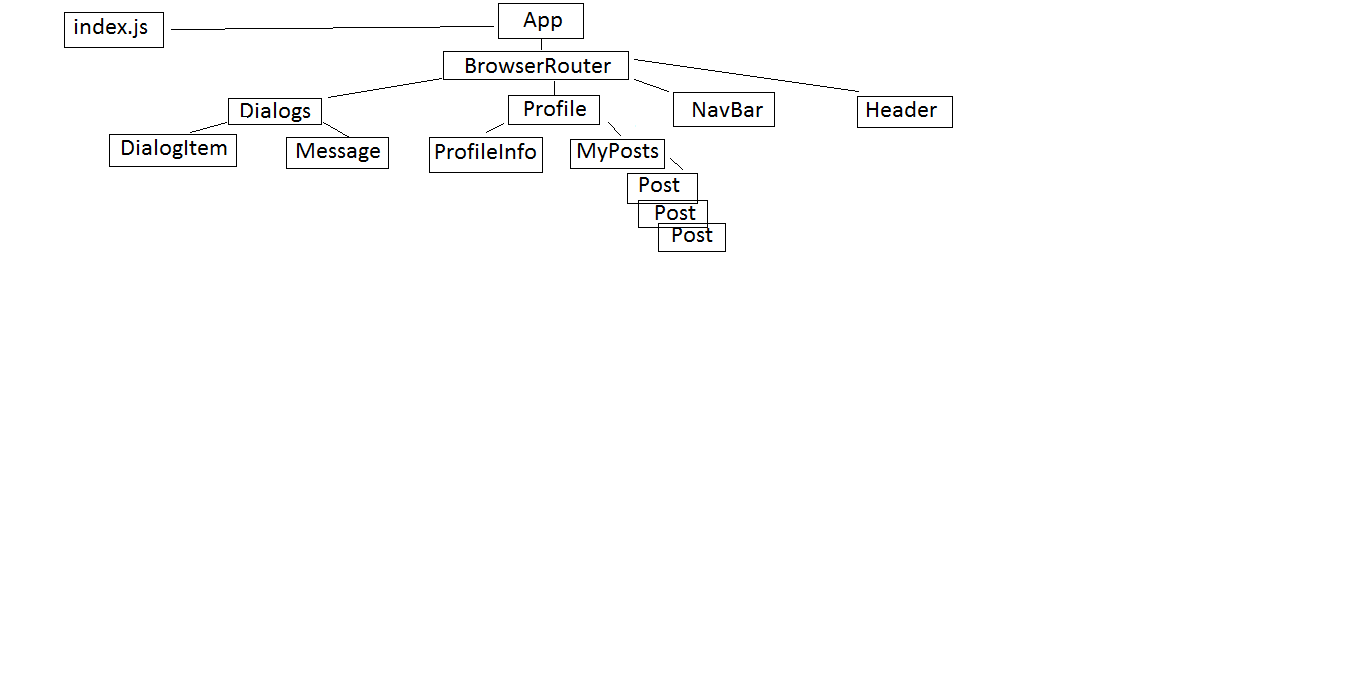
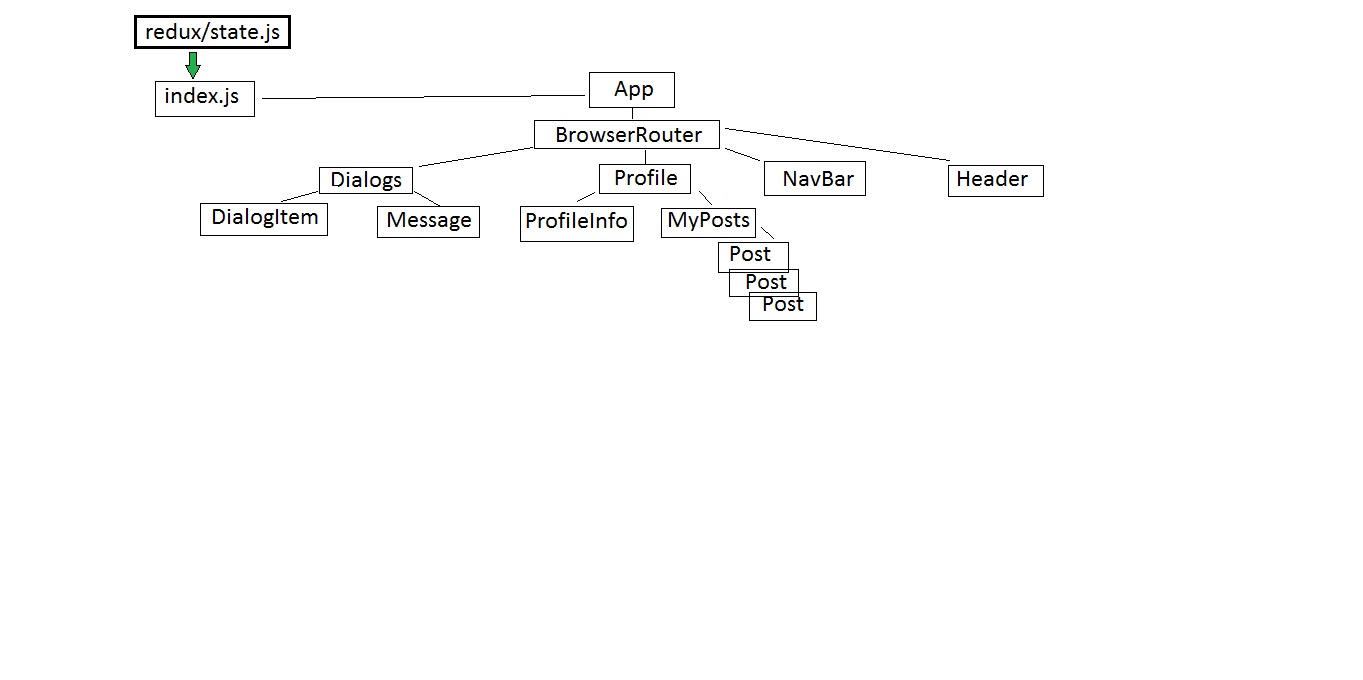
add state.js

diff --git a/src/App.js b/src/App.js
@@ -12,23 +12,20 @@ import './App.css';
 
 const App = (props) => {
 
-  
-
   return (
     <BrowserRouter>
       <div className='app-wrapper'>
         <Header />
         <Navbar />
         <div className='app__content'>
-          {/* <Route path='/profile' component={Profile} />
-          <Route path='/dialogs' component={Dialogs} /> */}
+          <Route path='/profile' 
+            render={ () => <Profile 
+              state={props.appState.profilePage}/> } />
+          <Route path='/dialogs' 
+            render={ () => <Dialogs 
+              state={props.appState.dialogsPage} />} />
 
-          <Route path='/profile' render={ () => <Profile posts={props.posts}/> } />
-          <Route path='/dialogs' render={ () => <Dialogs dialogs={props.dialogs} messages={props.messages}/>} />
-
-
-
-
+              
           <Route path='/news' component={News} />
           <Route path='/music' component={Music} />
           <Route path='/settings' component={Settings} />

diff --git a/src/index.js b/src/index.js
@@ -3,32 +3,12 @@ import ReactDOM from 'react-dom';
 import './index.css';
 import App from './App';
 import * as serviceWorker from './serviceWorker';
+import state from './redux/state';
 
-let posts = [
-  {id: 1, post: 'Hello, how are you?', counter: 12},
-  {id: 2, post: 'My first post', counter: 30},
-  {id: 3, post: 'My second post', counter: 22}
-];
-let dialogs = [
-  {id: 1, name: 'Kolya'},
-  {id: 2, name: 'Andrey'},
-  {id: 3, name: 'Petya'},
-  {id: 4, name: 'Vasya'},
-  {id: 5, name: 'Sasha'},
-  {id: 6, name: 'Olexa'}
-];
-let messages = [
-  {id: 1, message: 'Hi there!'},
-  {id: 2, message: 'Good day!'},
-  {id: 3, message: 'Good bue!'},
-  {id: 4, message: 'Hi there!'},
-  {id: 5, message: 'Good day!'},
-  {id: 6, message: 'Good bue!'}    
-];
 
 ReactDOM.render(
   <React.StrictMode>
-    <App posts={posts} dialogs={dialogs} messages={messages}/>
+    <App appState={state}/>
   </React.StrictMode>,
   document.getElementById('root')
 );

diff --git a/src/redux/state.js b/src/redux/state.js
@@ -1,0 +1,29 @@
+let state = {
+    profilePage:{
+        posts: [
+            {id: 1, post: 'Hello, how are you?', counter: 12},
+            {id: 2, post: 'My first post', counter: 30},
+            {id: 3, post: 'My second post', counter: 22}
+        ]
+    },
+    dialogsPage: {
+        messages: [
+            {id: 1, message: 'Hi there!'},
+            {id: 2, message: 'Good day!'},
+            {id: 3, message: 'Good bue!'},
+            {id: 4, message: 'Hi there!'},
+            {id: 5, message: 'Good day!'},
+            {id: 6, message: 'Good bue!'}    
+        ],
+        dialogs: [
+            {id: 1, name: 'Kolya'},
+            {id: 2, name: 'Andrey'},
+            {id: 3, name: 'Petya'},
+            {id: 4, name: 'Vasya'},
+            {id: 5, name: 'Sasha'},
+            {id: 6, name: 'Olexa'}
+        ]
+    }
+  }
+
+  export default state;

diff --git a/src/components/dialogs/Dialogs.jsx b/src/components/dialogs/Dialogs.jsx
@@ -8,11 +8,11 @@ const Dialogs = (props) => {
     
     
 
-    let dialogsElements = props.dialogs.map((d) => {
+    let dialogsElements = props.state.dialogs.map((d) => {
         return (<DialogItem key={d.id} id={d.id} name={d.name}/>);
     });
 
-    let messageElements = props.messages.map( m => <Message key={m.id} message={m.message}/> );
+    let messageElements = props.state.messages.map( m => <Message key={m.id} message={m.message}/> );
 
     return (
         <div className={s.dialogs}>

diff --git a/src/components/profile/Profile.jsx b/src/components/profile/Profile.jsx
@@ -5,15 +5,11 @@ import ProfileInfo from './profileinfo/ProfileInfo';
 
 const Profile = (props) => {
   
-
-
   return (
     <div>
 
       <ProfileInfo />
-      
-      
-      <MyPosts posts={props.posts} />
+      <MyPosts posts={props.state.posts} />
     </div>
   );
 }
